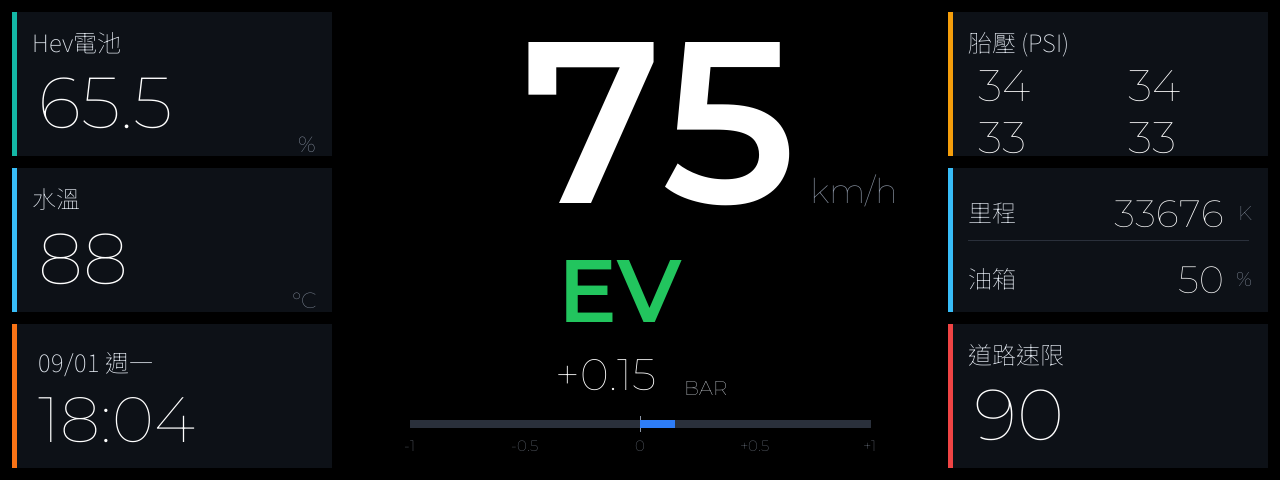
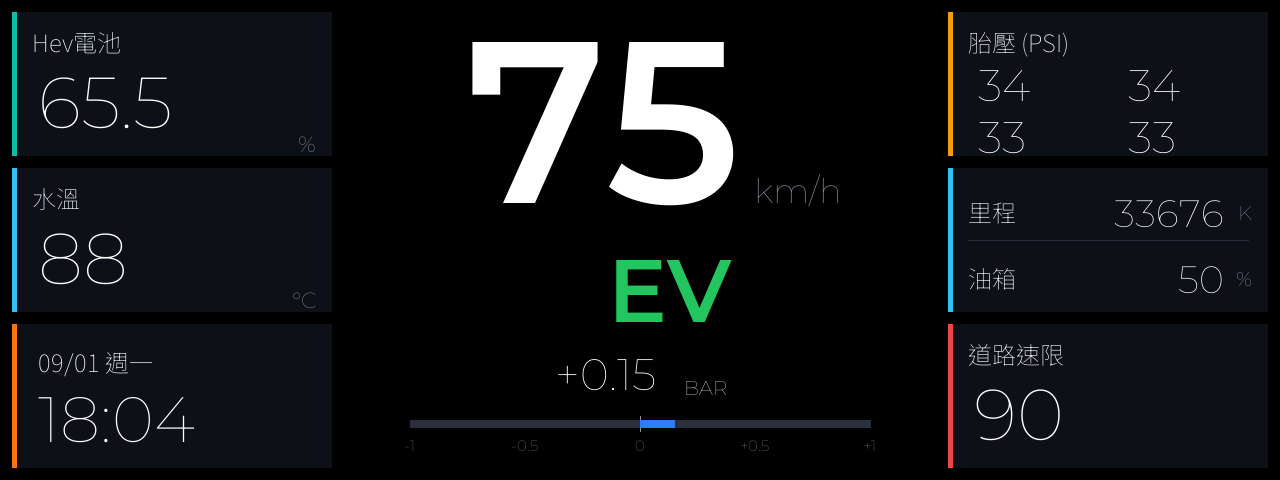
style: 時速與轉速共用同一條右對齊基準線
原本時速右緣在 796、轉速在 690，兩條基準線不同，視覺上沒有對齊。
改為共用 VALUE_RIGHT (740) 與 UNIT_X (754)，兩列的數值右緣與單位
起點都在同一條垂直線上。

數值寬度會隨位數變動，無法靠置中對齊，右對齊才是唯一能讓兩列真正
對齊的方式（單位是靜態的、位置不能動）。

EV 圖示隨之平移到 x 490..850，仍完整涵蓋轉速最寬的 "6800"
(x 510..740) 與單位 RPM (754..825)。

時速最寬的 "188" 左緣在 352，距左側卡片右緣 332 留 20px。

Changed region(s): [[0.3438, 0.0625, 0.6875, 0.4375], [0.4375, 0.5312, 0.5938, 0.6875]]

diff --git a/esp32_display/dwin_dashboard/tools/gen_background.py b/esp32_display/dwin_dashboard/tools/gen_background.py
@@ -49,12 +49,12 @@ ACCENT_W = 5
 CX            = W // 2
 # 單位是靜態的（畫在背景圖裡）位置不能動，所以數值一律「靠右對齊」，
 # 單位緊貼在它的右下角。若數值置中，位數變化時與單位的間距就會不一致。
-SPEED_RIGHT   = 796      # 時速數字的右緣
-SPEED_BASE    = 203      # 時速數字的基線
-SPEED_UNIT_X  = 810      # km/h 起點（貼在數字右下角）
-RPM_RIGHT     = 690
-RPM_BASE      = 317
-RPM_UNIT_X    = 702
+# 時速與轉速共用同一條右對齊基準線，單位也從同一個 x 起算，
+# 兩列才會看起來對齊（數值本身寬度會隨位數變動，無法靠置中對齊）。
+VALUE_RIGHT   = 740      # 數值右緣
+UNIT_X        = 754      # 單位起點（貼在數值右下角）
+SPEED_BASE    = 203      # 時速基線
+RPM_BASE      = 317      # 轉速基線
 
 # 轉速為 0（引擎熄火、HEV 純電）時顯示 EV。
 # 轉速數值是 Data Variable（只能顯示數字），而 "RPM" 單位是畫在背景圖裡的
@@ -62,7 +62,7 @@ RPM_UNIT_X    = 702
 # 圖示底色與畫面背景同為純黑，蓋上去看不出接縫。
 # DGUS 端用 Variable Icon (0x00) 或 Animation Icon (0x01)：
 # 把 V_Min/V_Max 都設為 0，轉速一大於 0 就自動不顯示。
-EV_X, EV_Y, EV_W, EV_H = 440, 245, 360, 90
+EV_X, EV_Y, EV_W, EV_H = 490, 245, 360, 90
 TURBO_CY      = 374
 TURBO_BAR_Y   = 420
 TURBO_BAR_W   = 460
@@ -110,8 +110,8 @@ def draw_static(d):
     text(d, (RIGHT_X + 20, ROW_Y[2] + 12), "道路速限", F_TC(24), LABEL)
 
     # 中央區的固定文字：單位貼在各自數值的右下角，與數值基線對齊
-    text(d, (SPEED_UNIT_X, SPEED_BASE), "km/h", F_NUM(34), UNIT, "ls")
-    text(d, (RPM_UNIT_X, RPM_BASE), "RPM", F_NUM(30), UNIT, "ls")
+    text(d, (UNIT_X, SPEED_BASE), "km/h", F_NUM(34), UNIT, "ls")
+    text(d, (UNIT_X, RPM_BASE), "RPM", F_NUM(30), UNIT, "ls")
 
     # 增壓：軌道、中線、刻度
     d.rectangle([TURBO_BAR_X, TURBO_BAR_Y,
@@ -138,8 +138,8 @@ def draw_dynamic(d):
     text(d, (RIGHT_X + 26, ROW_Y[2] + 46), "90", F_NUM(72), TEXT)
 
     # 中央：時速 → 轉速 → 增壓
-    text(d, (SPEED_RIGHT, SPEED_BASE), "75", F_NUM_SB(230), TEXT, "rs")
-    text(d, (RPM_RIGHT, RPM_BASE), "1750", F_NUM_SB(88), BLUE, "rs")
+    text(d, (VALUE_RIGHT, SPEED_BASE), "75", F_NUM_SB(230), TEXT, "rs")
+    text(d, (VALUE_RIGHT, RPM_BASE), "1750", F_NUM_SB(88), BLUE, "rs")
 
     text(d, (CX - 34, TURBO_CY), "+0.15", F_NUM(44), TEXT, "mm")
     text(d, (CX + 44, TURBO_CY + 14), "BAR", F_NUM(20), LABEL, "lm")

diff --git a/esp32_display/dwin_dashboard/README.md b/esp32_display/dwin_dashboard/README.md
@@ -58,6 +58,10 @@ python3 tools/gen_background.py <字型資料夾>
 所以數值必須靠右對齊、單位緊貼其右下角，位數變化時數字往左長。
 若數值置中，兩位數與三位數跟單位之間的間距就會不一致。
 
+時速與轉速**共用同一條右對齊基準線**（`VALUE_RIGHT`）、單位也從同一個
+x 起算（`UNIT_X`），兩列看起來才是對齊的。數值寬度會隨位數變動，
+靠置中是對不齊的。
+
 同理，DGUS 的 Data Variable 雖然有內建的 `String_Unit` 欄位可以把單位
 接在數字後面，但那個單位會跟數字同字級（時速是 230px），不能用。
 
@@ -77,8 +81,8 @@ VP 指向轉速值、`V_Min`/`V_Max` 都設為 `0` —— 依規格書
 「Values greater than V_Max will show no Icons」，轉速一大於 0
 圖示就自動消失，不需要 MCU 額外送控制指令。
 
-圖示尺寸 **360×90（x 440..800，y 245..335）**，涵蓋轉速最寬的
-`6800`（x 460..690）與單位 `RPM`（x 702..773）。
+圖示尺寸 **360×90（x 490..850，y 245..335）**，涵蓋轉速最寬的
+`6800`（x 510..740）與單位 `RPM`（x 754..825）。
 
 > 轉速字級改動時，**EV 圖示的尺寸必須跟著重算**——蓋不住就會露出底下
 > 的數字或單位。`gen_background.py` 末尾的檢查會列出各位數的實際佔用
